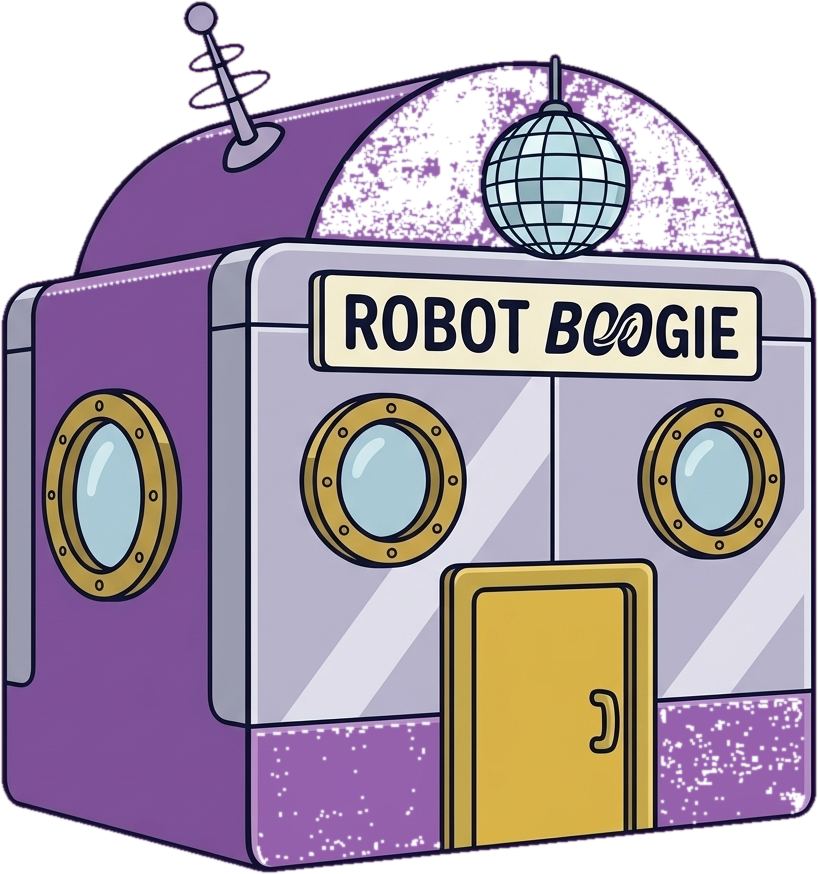
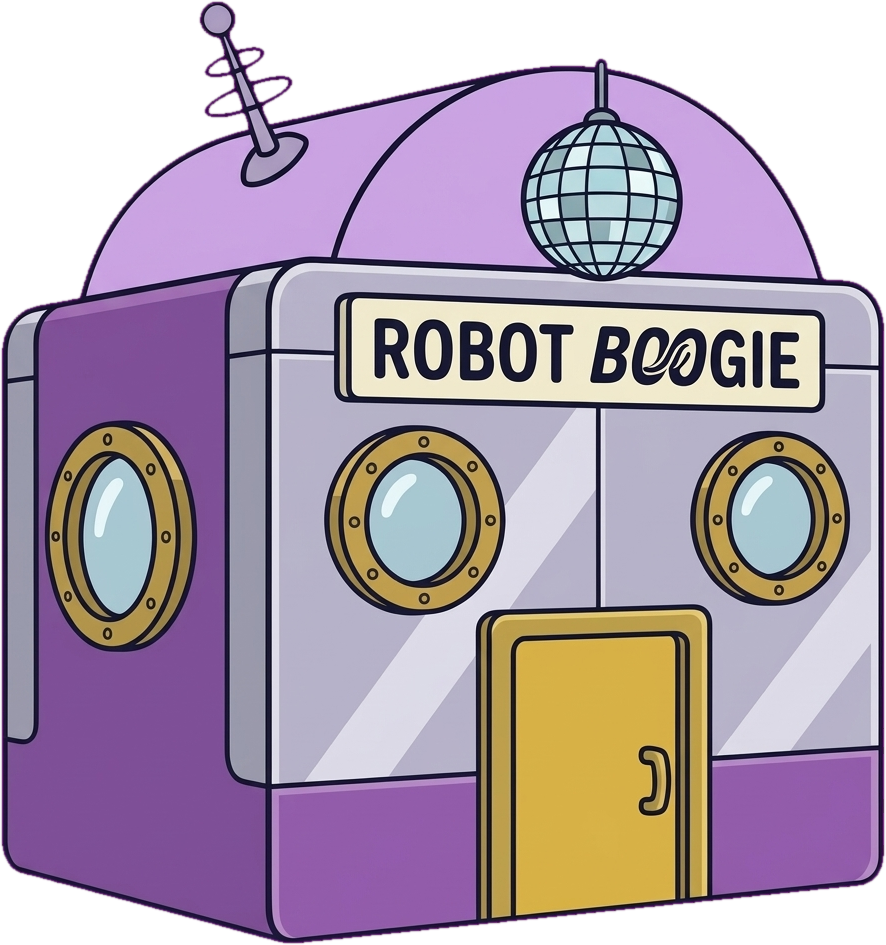
## Robot Boogie building redrawn (verified visually) - Root cause: the background-removal step on the original had been eating the purple, leaving speckled see-through dots on the dome and bottom band. Redrew the same design with flat fills, re-keyed it cleanly, and swapped the file in place — it sh
Emergent-Commit-Key: 6fceac6bfa0f1a058cd28fe7cacf75c4739539f29552c37cc5be3a1c27f780dd

diff --git a/memory/PRD.md b/memory/PRD.md
@@ -1,5 +1,8 @@
 # Jelly of the Month Club Music Academy (JMA) — PRD
 
+## Jun 2026: Robot Boogie building redrawn
+- Old PNG had speckled transparency (the old chromaKey.py `g<120` rule ate the purple). Regenerated on magenta and keyed with a stricter rule (r>200,b>200,g<110,|r-b|<50). Use that stricter key for any future purple/violet art.
+
 ## Jun 2026: Home JMAtv card → outer-space
 - Desktop `components/RetroTV.js` card too (data-testid home-retro-tv-space).
 - `JmatvCrtMobile` card in HomePage uses `SPACE_BG_STYLE` + exported `Nebula`/`Starfield` from SpaceBackdrop (data-testid home-card-jmatv-space); copy is cream on dark.
